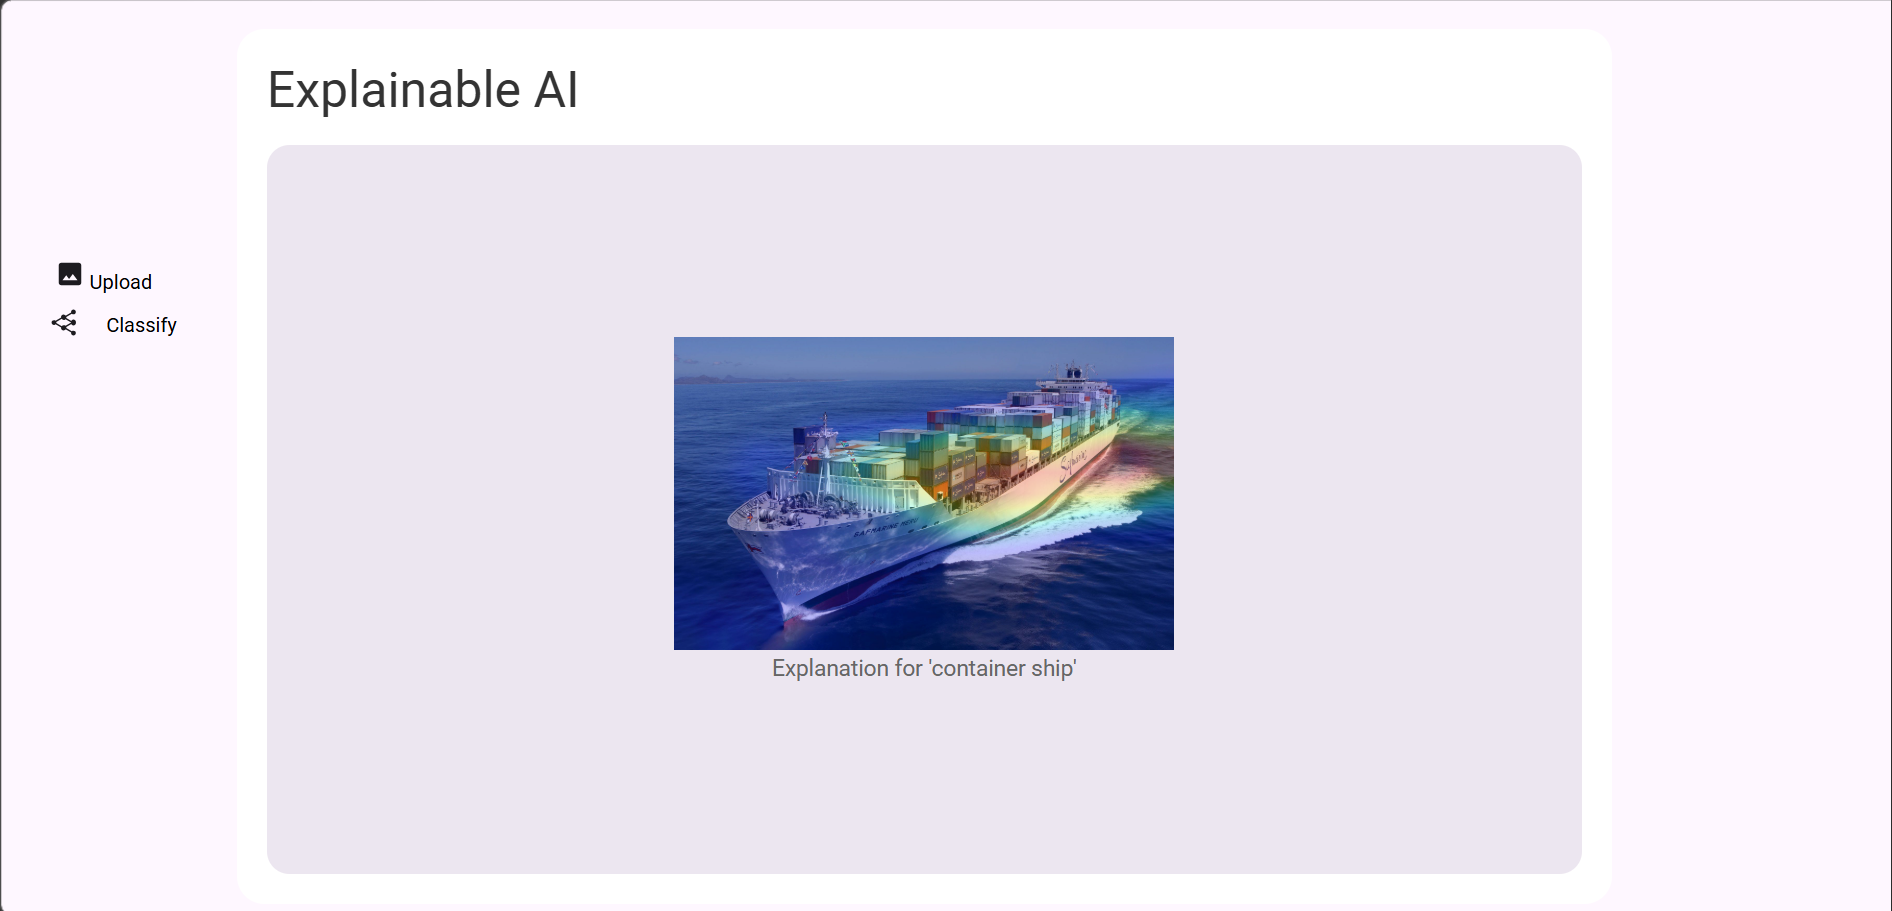
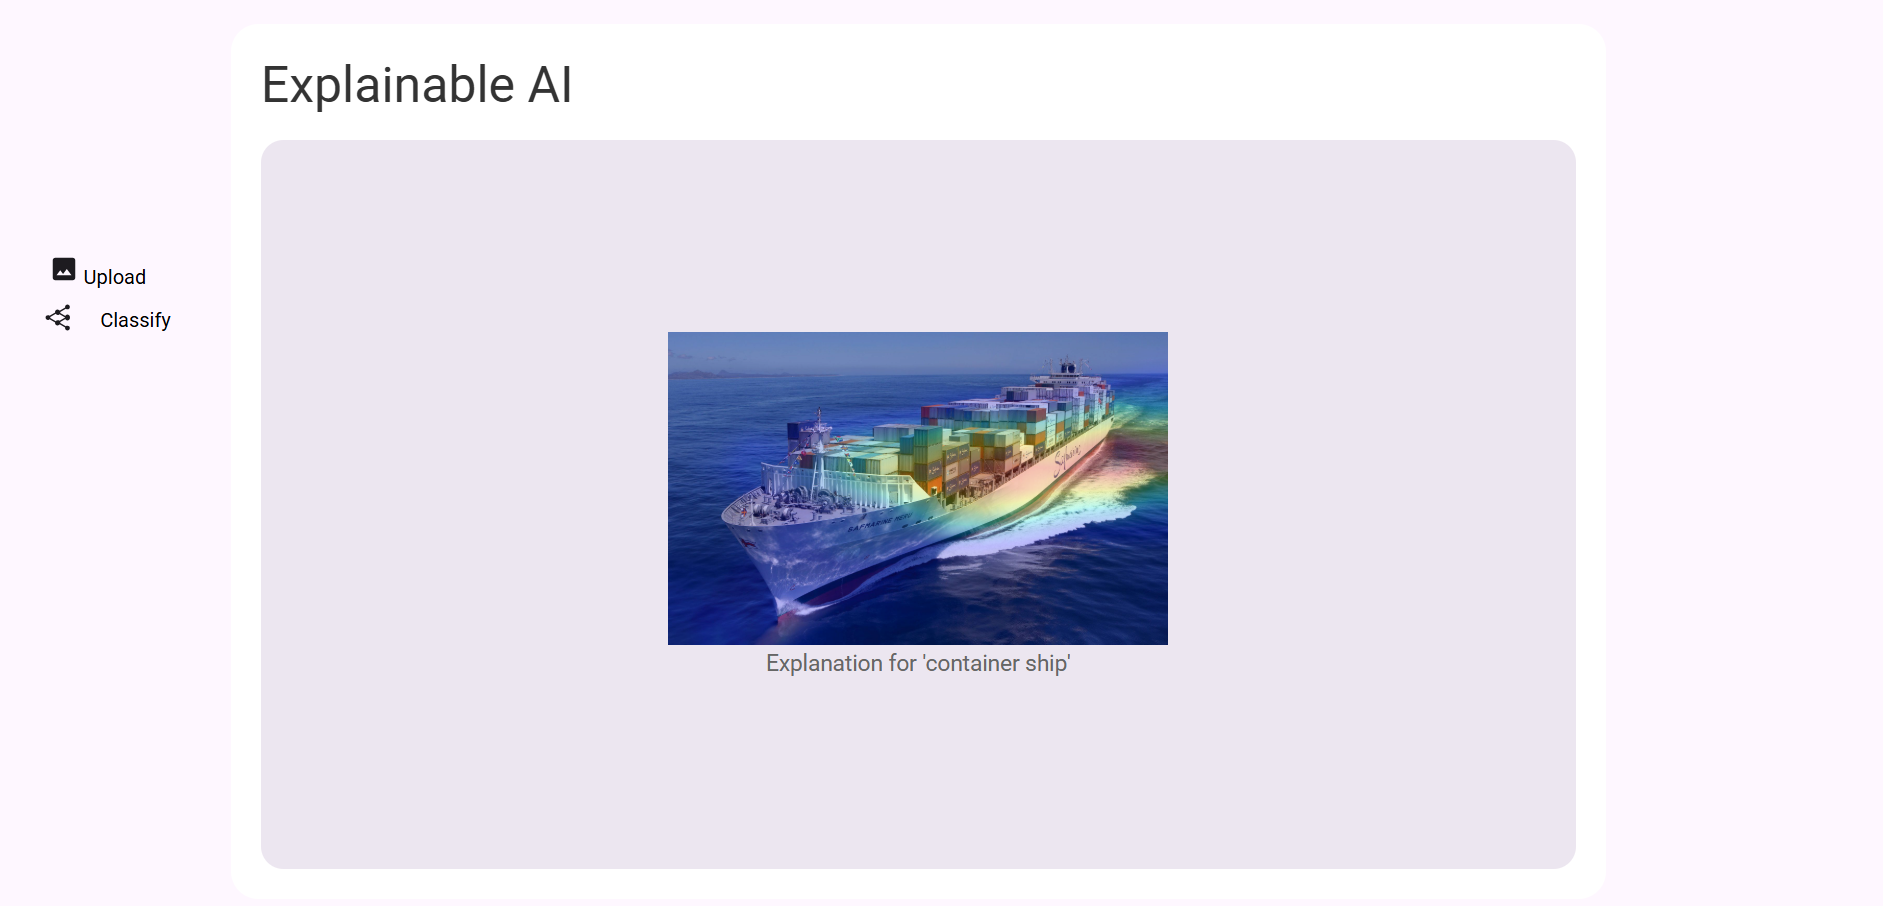
Grad-CAM Implementierung

diff --git a/documentation/ausarbeitung/htwsaar-i-mst-vorlage-2.25/htwsaar-i-mst-vorlage-2.25/Chapters/Implementierung.tex b/documentation/ausarbeitung/htwsaar-i-mst-vorlage-2.25/htwsaar-i-mst-vorlage-2.25/Chapters/Implementierung.tex
@@ -54,3 +54,15 @@ Das macht es zu einem sehr effizienten Netz bei hoher Genauigkeit.
 Der Speicherbedarf ist nicht zu hoch und bei einer Demonstration in einer Vorlesung hat es den Vorteil, dass das Netz nicht mehr trainiert werden muss und die Klassifizierung schnell abgeschlossen ist.
 
 \subsection{Implementierung der XAI-Verfahren}
+Für die Implementierung der XAI-Methoden gibt es die Klasse \verb|ExplainableAITechnique| mit der Methode \verb|explain|.
+Diese bekommt als Parameter eine\verb|Prediction|, bestehend aus ID, Name und Wahrscheinlichkeit einer Klasse, sowie ein \verb|NeuralNetwork|-Modell und wird in den Unterklassen \verb|GradCAM| und \verb|LIME| von der jeweiligen Methode implementiert.
+
+\subsubsection{Grad-CAM}
+Zur Generierung einer Grad-CAM-Erklärung wird zuerst die letzte Convolutional Layer des Netzes gefunden.
+Dort wird dann eine Forward-Hook zum Speichern der Aktivierungen und eine Backward-Hook zum Speichern der Gradienten erstellt.
+Dann wird ein Forward Pass und ein Backward Pass durchgeführt, wodurch die Hooks ausgelöst werden.
+Die Gewichte der Filter werden anhand des Mittelwertes der Gradienten berechnet und mit ihnen die gewichtete Summe der Feature Maps gebildet, wodurch ein 2D-Array entsteht.
+Daraufhin wird noch eine ReLU-Funktion angewendet und eine Normalisierung durchgeführt, damit sich alle Werte zwischen 0 und 1 befinden.
+Das 2D-Array wird schließlich in eine Heatmap umgewandelt und transparent über das Bild gelegt.
+
+\subsubsection{LIME}
